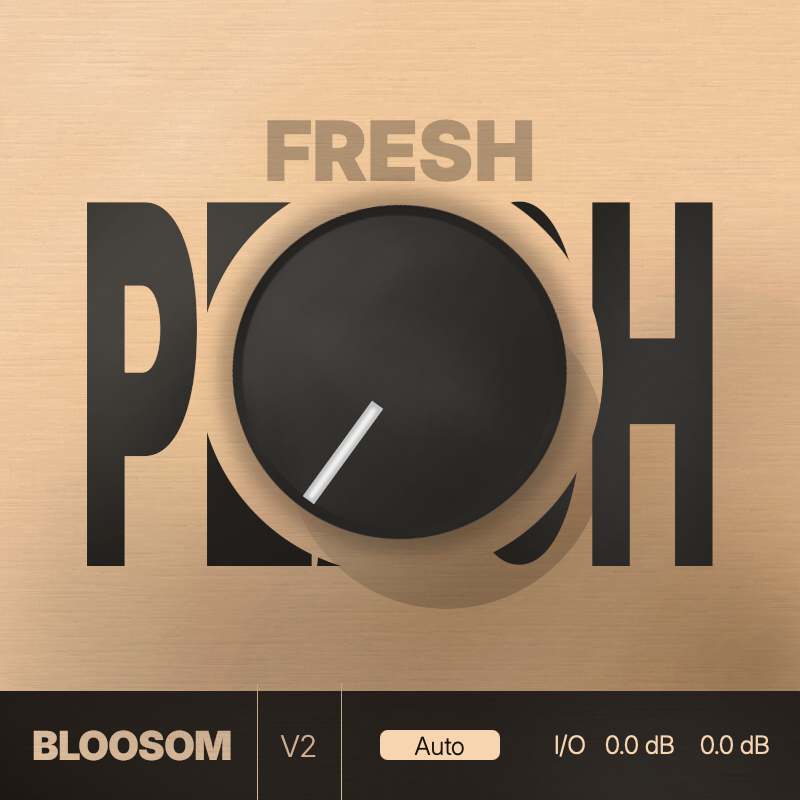
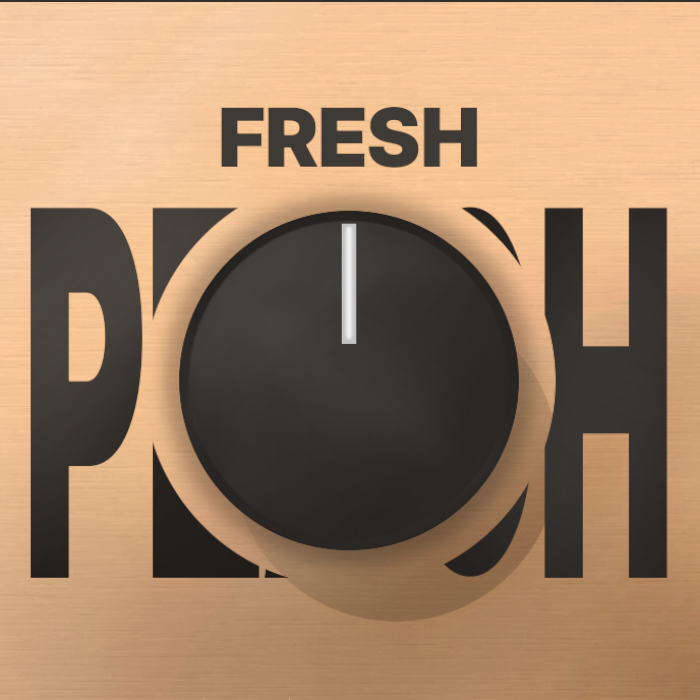
1.1 Revision

diff --git a/index.html b/index.html
@@ -62,10 +62,10 @@
 
         <article class="card reveal">
           <div class="card__art">
-            <img src="src/plugin-root.png" alt="Lychee plugin interface" loading="lazy" />
+            <img src="src/plugin-commingSoon.png" alt="Lychee plugin interface" loading="lazy" />
           </div>
           <h3 class="card__name">LYCHEE</h3>
-          <p class="card__desc">Bus compression with weight, glue, and zero harshness.</p>
+          <p class="card__desc">???</p>
           <span class="card__status">Coming Soon</span>
         </article>
       </div>